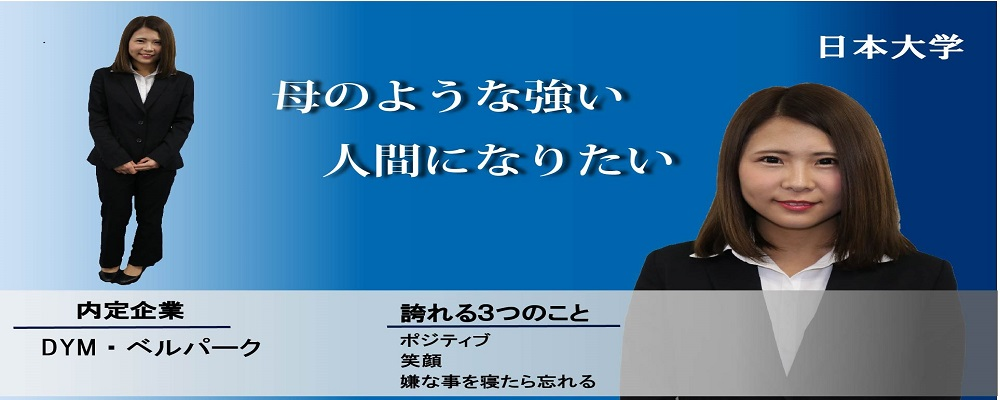
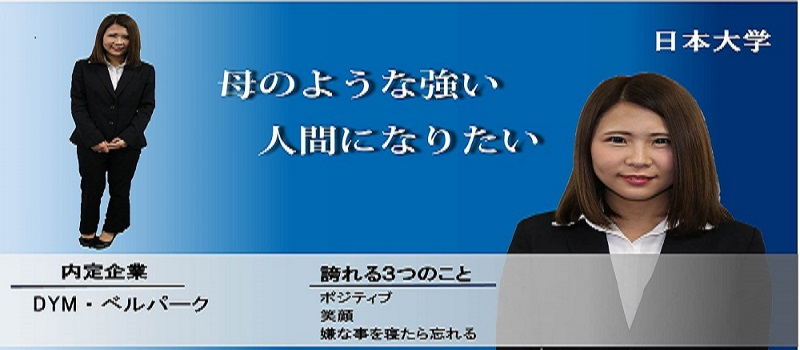
sa

diff --git a/narita.html b/narita.html
@@ -56,19 +56,19 @@
     </nav>
 
     <!-- Page Header -->
-    <header class="masthead" style="background-image: url('img/home.jpg')"> <!-- ヘッダーの背景を消して左右に画像を張りその真ん中にそれぞれ文章を書きたい  -->
+    <header class="masthead" style="background-image: url('img/shimamura/shimamura.jpg')"> <!-- ヘッダーの背景を消して左右に画像を張りその真ん中にそれぞれ文章を書きたい  -->
       <div class="container">
         <div class="row">
           <div class="col-md-6">
             <div class="site-heading">
-              <h2>株式会社</h2>
-              <span class="subheading">何かしらの文</span>
+              <h2>　　　　</h2>
+              <span class="subheading"></span>
             </div>
           </div>
          <div class="col-md-6">
             <div class="site-heading">
-              <h2>株式会社</h2>
-              <span class="subheading">何かしらの文</span>
+              <h2>　　　　</h2>
+              <span class="subheading">　　　　</span>
             </div>
           </div>
         </div>

diff --git a/nihei.html b/nihei.html
@@ -61,14 +61,14 @@
         <div class="row">
           <div class="col-md-6">
             <div class="site-heading">
-              <h2>株式会社</h2>
-              <span class="subheading">何かしらの文</span>
+              <h2>　　　　</h2>
+              <span class="subheading"></span>
             </div>
           </div>
          <div class="col-md-6">
             <div class="site-heading">
-              <h2>株式会社</h2>
-              <span class="subheading">何かしらの文</span>
+              <h2>　　　　</h2>
+              <span class="subheading"></span>
             </div>
           </div>
         </div>
